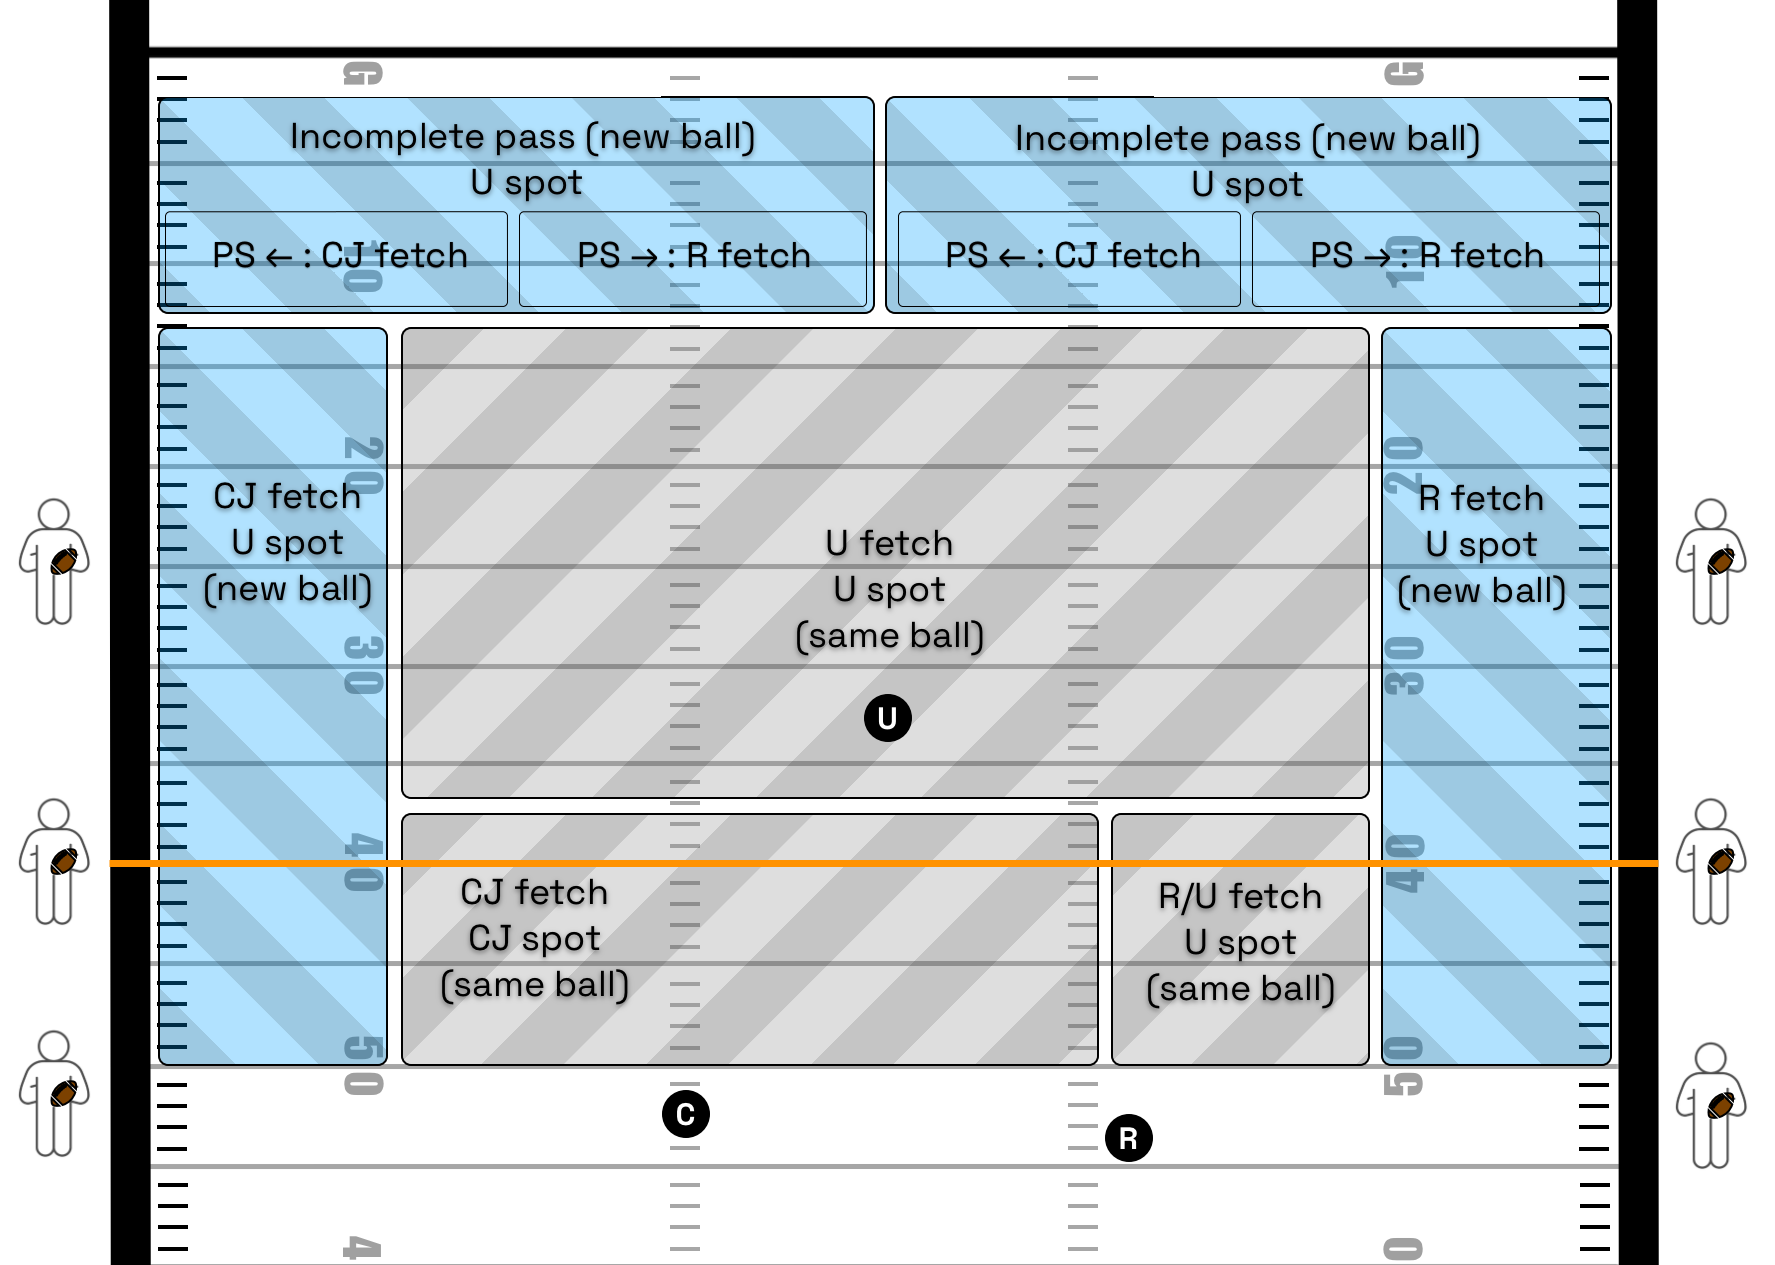
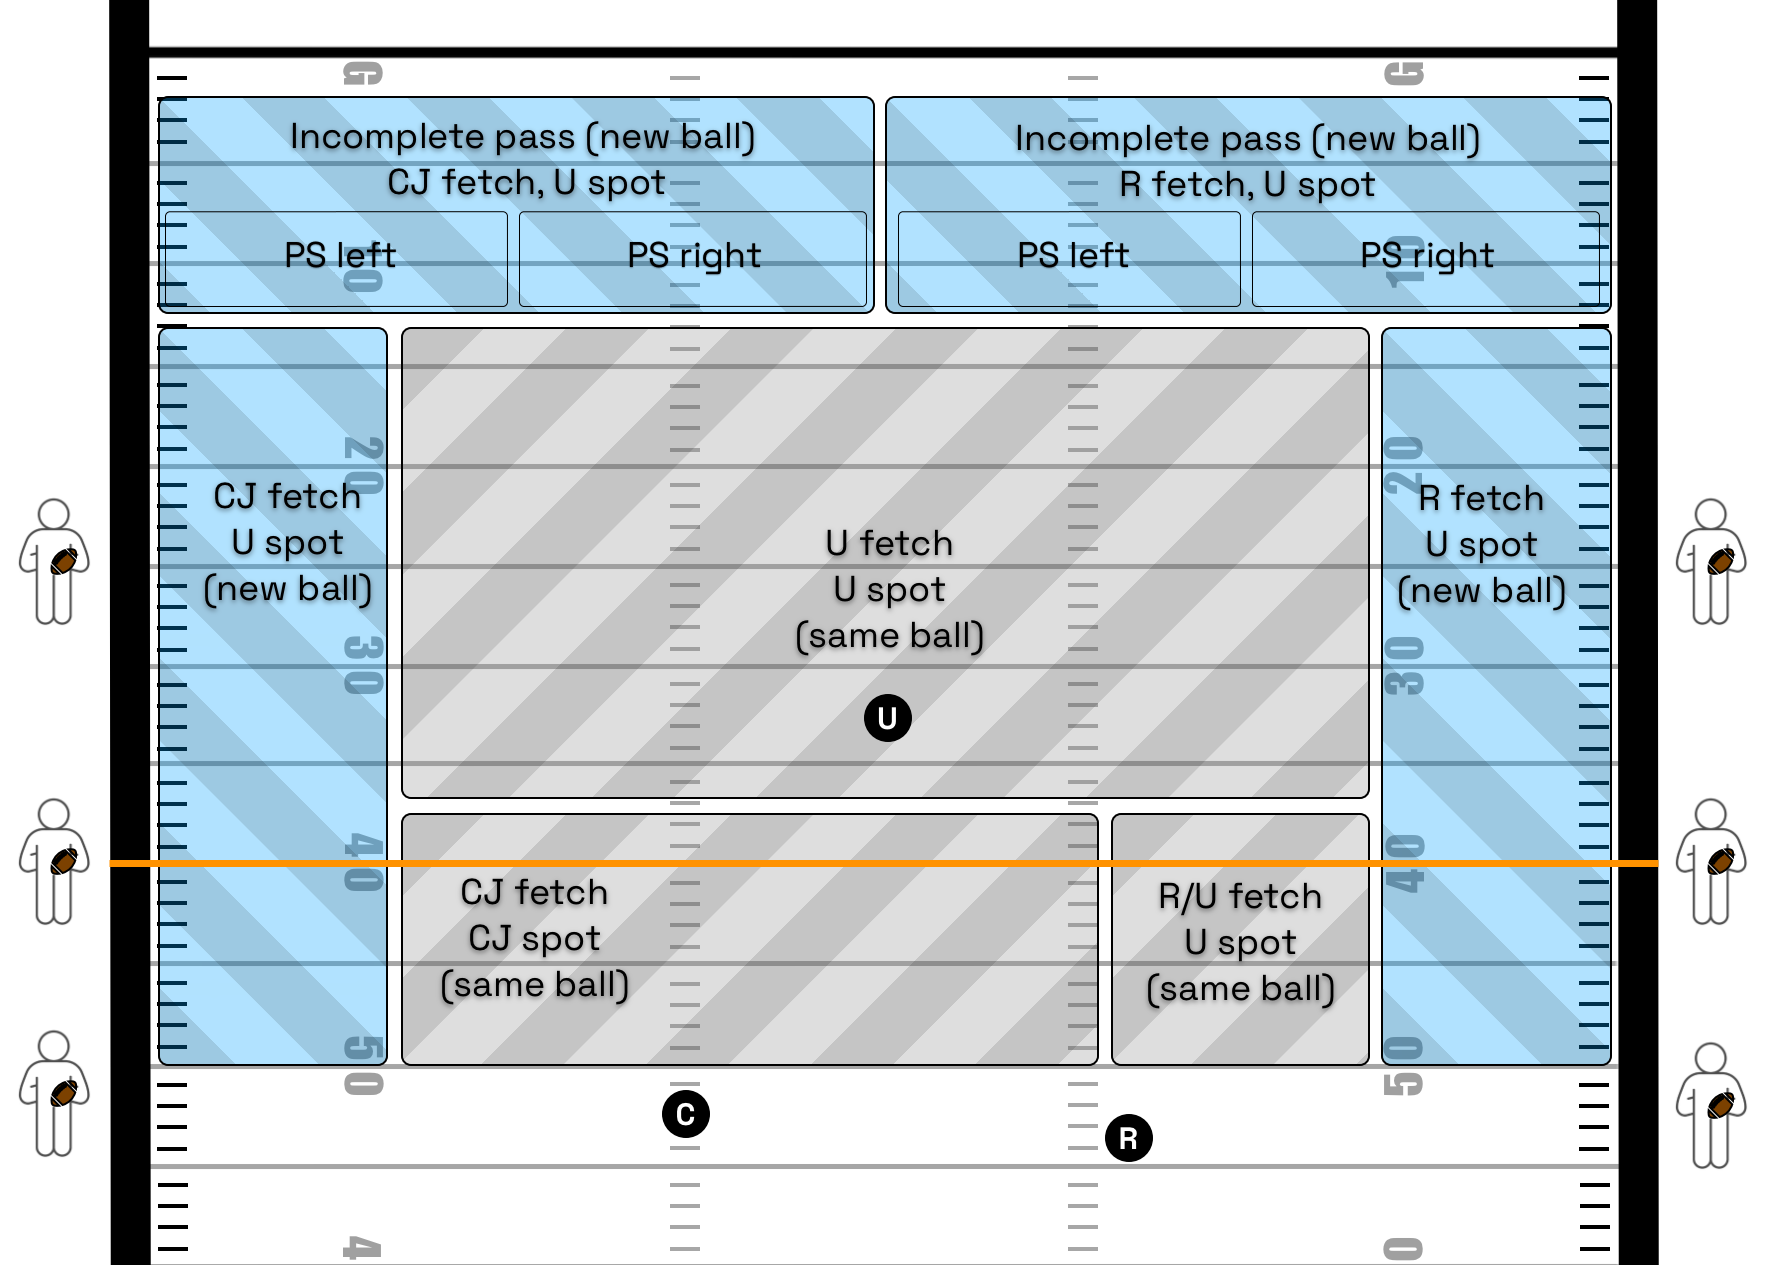
v7 with updated CJ and R fetching on incomplete passes

diff --git a/ball-rotation/v7/index.html b/ball-rotation/v7/index.html
@@ -61,7 +61,7 @@
       </div>
 
       <div class="right-item">
-        <span style="font-size: 0.5em">version 2023.8.18 (v6)</span>
+        <span style="font-size: 0.5em">version 2024.3.20 (v7)</span>
       </div>
     </div>
 
@@ -74,19 +74,19 @@
       <div class="hide-on-print"><br />Hover over the different zones with your mouse (or touch on mobile device) to see the expected movements. Any questions or suggestions, please reach out to Dave Hergert.</div>
       <div style="text-align: center; padding: 0; margin: 0">
         <svg version="1.1" xmlns="http://www.w3.org/2000/svg" xmlns:xlink="http://www.w3.org/1999/xlink" viewBox="0 0 1775 1265" height="700px" class="print-size" id="svgMap">
-          <image width="1775" height="1265" xlink:href="football-img.php?0" id="svgImage"></image>
-          <rect x="159" y="329" fill="#fff" opacity="0" width="229" height="736" id="football-img.php?1"></rect>
+          <image width="1775" height="1265" xlink:href="football-field-0.png" id="svgImage"></image>
+          <rect x="159" y="329" fill="#fff" opacity="0" width="229" height="736" id="football-field-1.png"></rect>
 
-          <rect x="160" y="95" fill="#fff" opacity="0" width="714" height="220" id="football-img.php?2"></rect>
-          <rect x="165" y="210" fill="#fff" opacity="0" width="343" height="95" id="football-img.php?2-1"></rect>
-          <rect x="520" y="210" fill="#fff" opacity="0" width="347" height="95" id="football-img.php?2-2"></rect>
+          <rect x="160" y="95" fill="#fff" opacity="0" width="714" height="220" id="football-field-2.png"></rect>
+          <rect x="165" y="210" fill="#fff" opacity="0" width="343" height="95" id="football-field-2-1.png"></rect>
+          <rect x="520" y="210" fill="#fff" opacity="0" width="347" height="95" id="football-field-2-2.png"></rect>
 
-          <rect x="887" y="95" fill="#fff" opacity="0" width="726" height="220" id="football-img.php?3"></rect>
-          <rect x="898" y="210" fill="#fff" opacity="0" width="343" height="95" id="football-img.php?3-1"></rect>
-          <rect x="1253" y="210" fill="#fff" opacity="0" width="347" height="95" id="football-img.php?3-2"></rect>
+          <rect x="887" y="95" fill="#fff" opacity="0" width="726" height="220" id="football-field-3.png"></rect>
+          <rect x="898" y="210" fill="#fff" opacity="0" width="343" height="95" id="football-field-3-1.png"></rect>
+          <rect x="1253" y="210" fill="#fff" opacity="0" width="347" height="95" id="football-field-3-2.png"></rect>
 
-          <rect x="1381" y="327" fill="#fff" opacity="0" width="230" height="740" id="football-img.php?4"></rect>
-          <rect x="1111" y="814" fill="#fff" opacity="0" width="260" height="252" id="football-img.php?5"></rect>
+          <rect x="1381" y="327" fill="#fff" opacity="0" width="230" height="740" id="football-field-4.png"></rect>
+          <rect x="1111" y="814" fill="#fff" opacity="0" width="260" height="252" id="football-field-5.png"></rect>
         </svg>
       </div>
     </div>
@@ -99,26 +99,24 @@
         },
         function () {
           var img = document.getElementById("svgImage");
-          img.setAttributeNS("http://www.w3.org/1999/xlink", "xlink:href", "football-field-00.png");
+          img.setAttributeNS("http://www.w3.org/1999/xlink", "xlink:href", "football-field-0.png");
         }
       );
 
       // preload images
       var images = [];
-      for (var i = 0; i <= 5; i++) {
-        console.log("Preloading image for zone " + i);
-
-        images[i] = new Image();
-        images[i].src = "football-img.php?" + i;
-
-        if (i == 2 || i == 3) {
-          console.log("Preloading sub-images for zone " + i);
-          images[i + 10] = new Image();
-          images[i + 11] = new Image();
-          images[i + 10].src = "football-img.php?" + i + "-1";
-          images[i + 11].src = "football-img.php?" + i + "-2";
-        }
-      }
+      console.log("Preloading images");
+      images[0] = new Image().src = "football-field-0.png";
+      images[1] = new Image().src = "football-field-1.png";
+      images[2] = new Image().src = "football-field-2.png";
+      images[3] = new Image().src = "football-field-2-1.png";
+      images[4] = new Image().src = "football-field-2-2.png";
+      images[5] = new Image().src = "football-field-3.png";
+      images[6] = new Image().src = "football-field-3-1.png";
+      images[7] = new Image().src = "football-field-3-2.png";
+      images[8] = new Image().src = "football-field-4.png";
+      images[9] = new Image().src = "football-field-5.png";
+      console.log("Done preloading images");
     </script>
   </body>
 </html>
